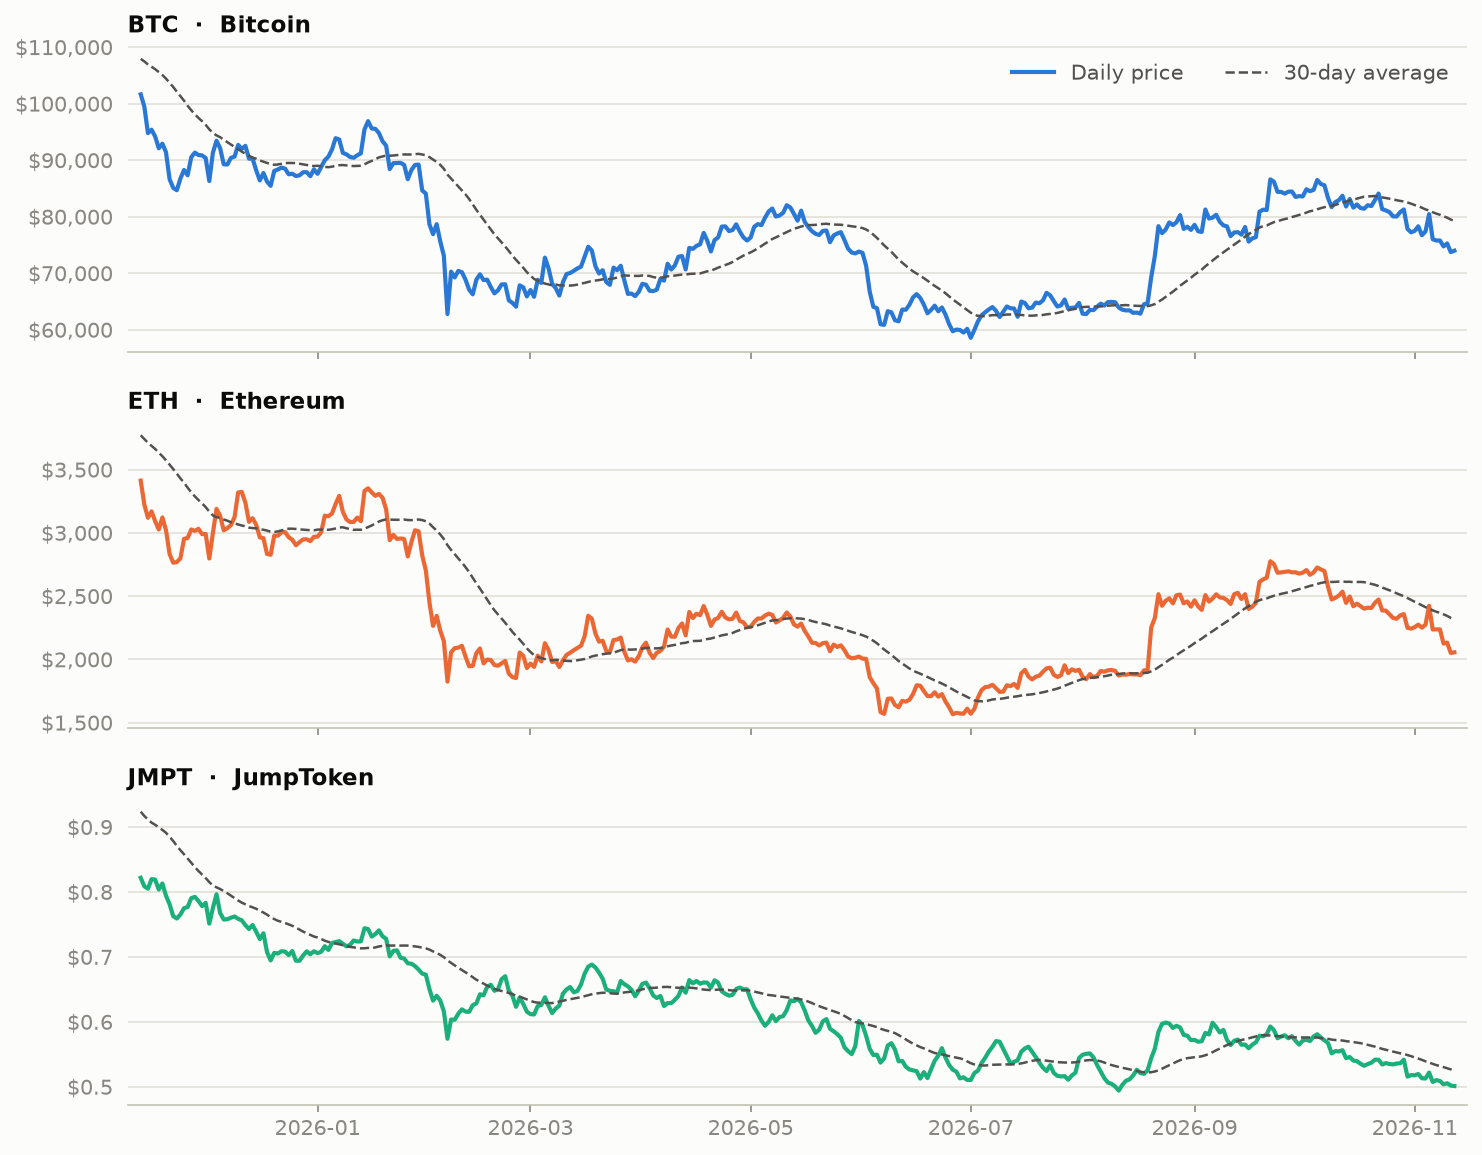
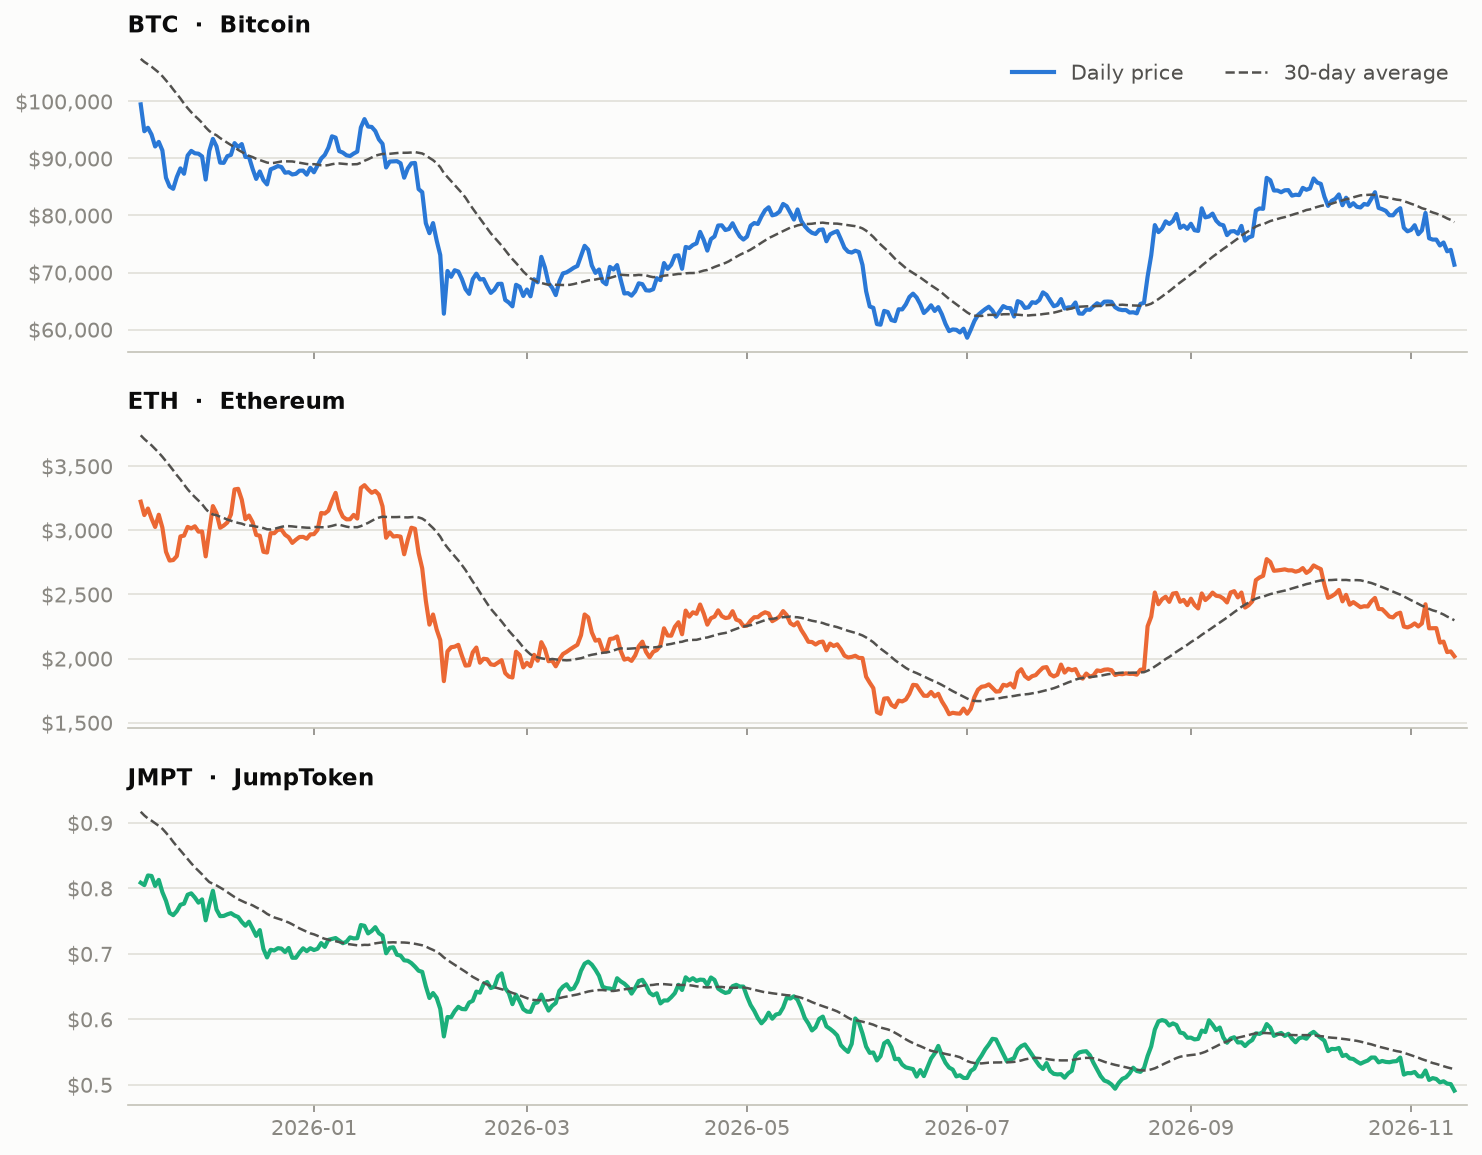
data: market update 2026-11-13

diff --git a/README.md b/README.md
@@ -9,13 +9,13 @@ The project compares two of the largest cryptocurrencies with a small-cap token:
 ## Latest stats
 
 <!-- STATS:START -->
-_Snapshot as of **2026-11-12 00:00 UTC**. Updated automatically every day._
+_Snapshot as of **2026-11-13 00:00 UTC**. Updated automatically every day._
 
 | Coin | Price | 1 day | 7 days | 30 days | 1 year | Volatility (30d) | Market cap |
 |:--|--:|--:|--:|--:|--:|--:|--:|
-| **BTC** Bitcoin | $73,974 | ▲ +0.3% | ▼ -8.0% | ▼ -9.6% | ▼ -28.3% | 36% | $1.49T |
-| **ETH** Ethereum | $2,055 | ▲ +0.2% | ▼ -15.2% | ▼ -16.0% | ▼ -39.8% | 50% | $251.19B |
-| **JMPT** JumpToken | $0.501 | ▼ -0.1% | ▼ -4.0% | ▼ -7.9% | ▼ -39.4% | 23% | $7.40M |
+| **BTC** Bitcoin | $71,372 | ▼ -3.5% | ▼ -6.1% | ▼ -14.1% | ▼ -29.8% | 37% | $1.44T |
+| **ETH** Ethereum | $2,017 | ▼ -1.8% | ▼ -9.8% | ▼ -19.2% | ▼ -40.9% | 49% | $246.55B |
+| **JMPT** JumpToken | $0.491 | ▼ -2.0% | ▼ -3.2% | ▼ -10.0% | ▼ -40.2% | 24% | $7.25M |
 <!-- STATS:END -->
 
 ## Charts
